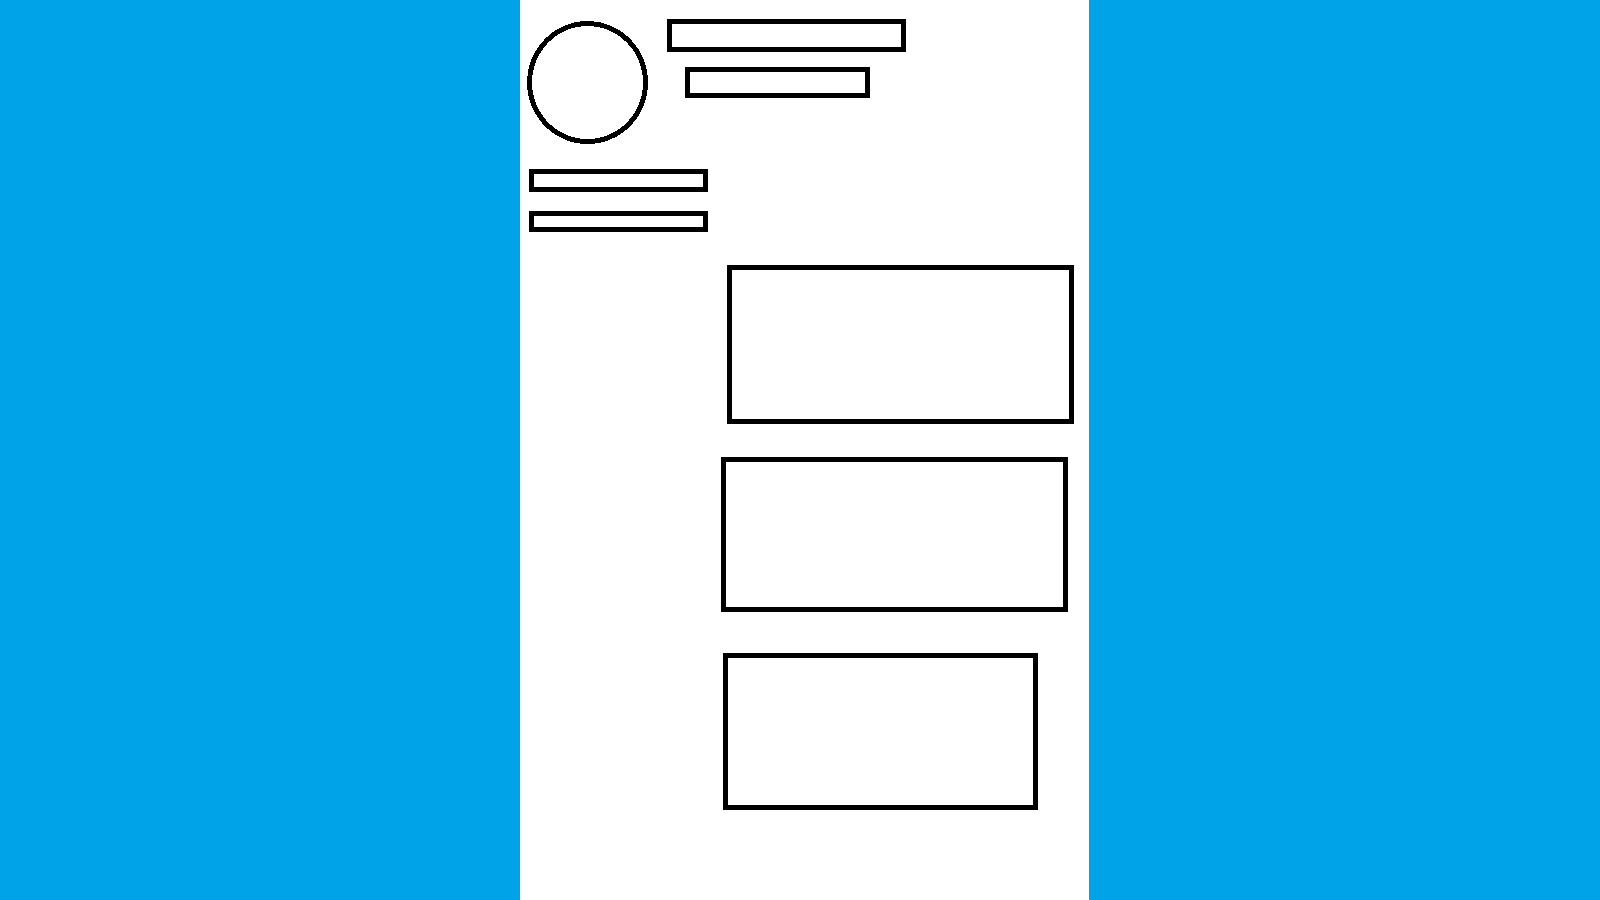
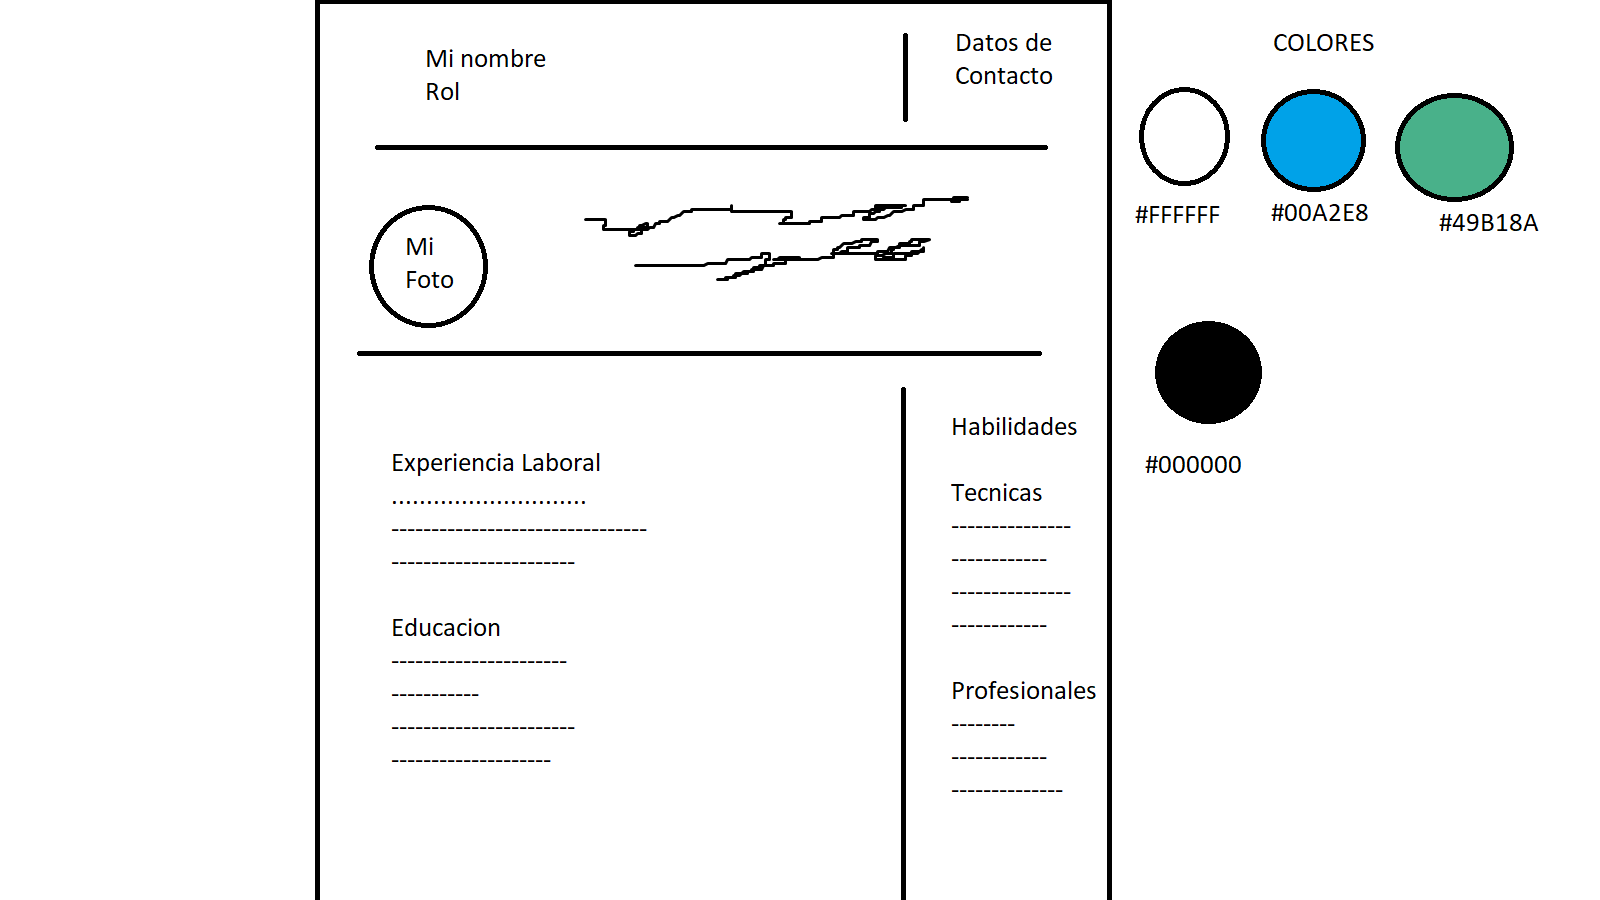
Actualización del diseño y uso de plantilla

diff --git a/index.html b/index.html
@@ -10,19 +10,22 @@
     <script src="https://cdn.jsdelivr.net/npm/bootstrap@5.2.0-beta1/dist/js/bootstrap.bundle.min.js" integrity="sha384-pprn3073KE6tl6bjs2QrFaJGz5/SUsLqktiwsUTF55Jfv3qYSDhgCecCxMW52nD2" crossorigin="anonymous"></script>
 </head>
 <body>
-      <div class="row">
-        <div class="col-3">
-            
-        </div>
-        <div class="col-5">
-            <div class="fotoPerfil">
-                <img src="./img/Foto-480w.jpg" />
-            </div>
+    <!-- Utilizando una plantilla de bootstrap 5.x armé el contenedor principal del CV-->
+    <div class="main-wrapper">
+        <div class="container px-3 px-lg-5">
+            <article class="resume-wrapper mx-auto theme-bg-dark p-5 mb-5 my-5 shadow-lg">
+                
+              <div class="resume-header">
+                <div class="row align-items-center">
+                    <div class="resume-title col-12 col-md-6 col-lg-8 col-xl-9">
+                        <h2 class="resume-name mb-0 text-uppercase">Martín Segnini</h2>
+                        <div class="resume-tagline mb-3 mb-md-0">Jr Web Developer</div>
+                    </div>
+                </div>
+              </div>  
 
+            </article>
         </div>
-        <div class="col-4">
-            
-        </div>
-      </div>
+    </div>
 </body>
 </html>
